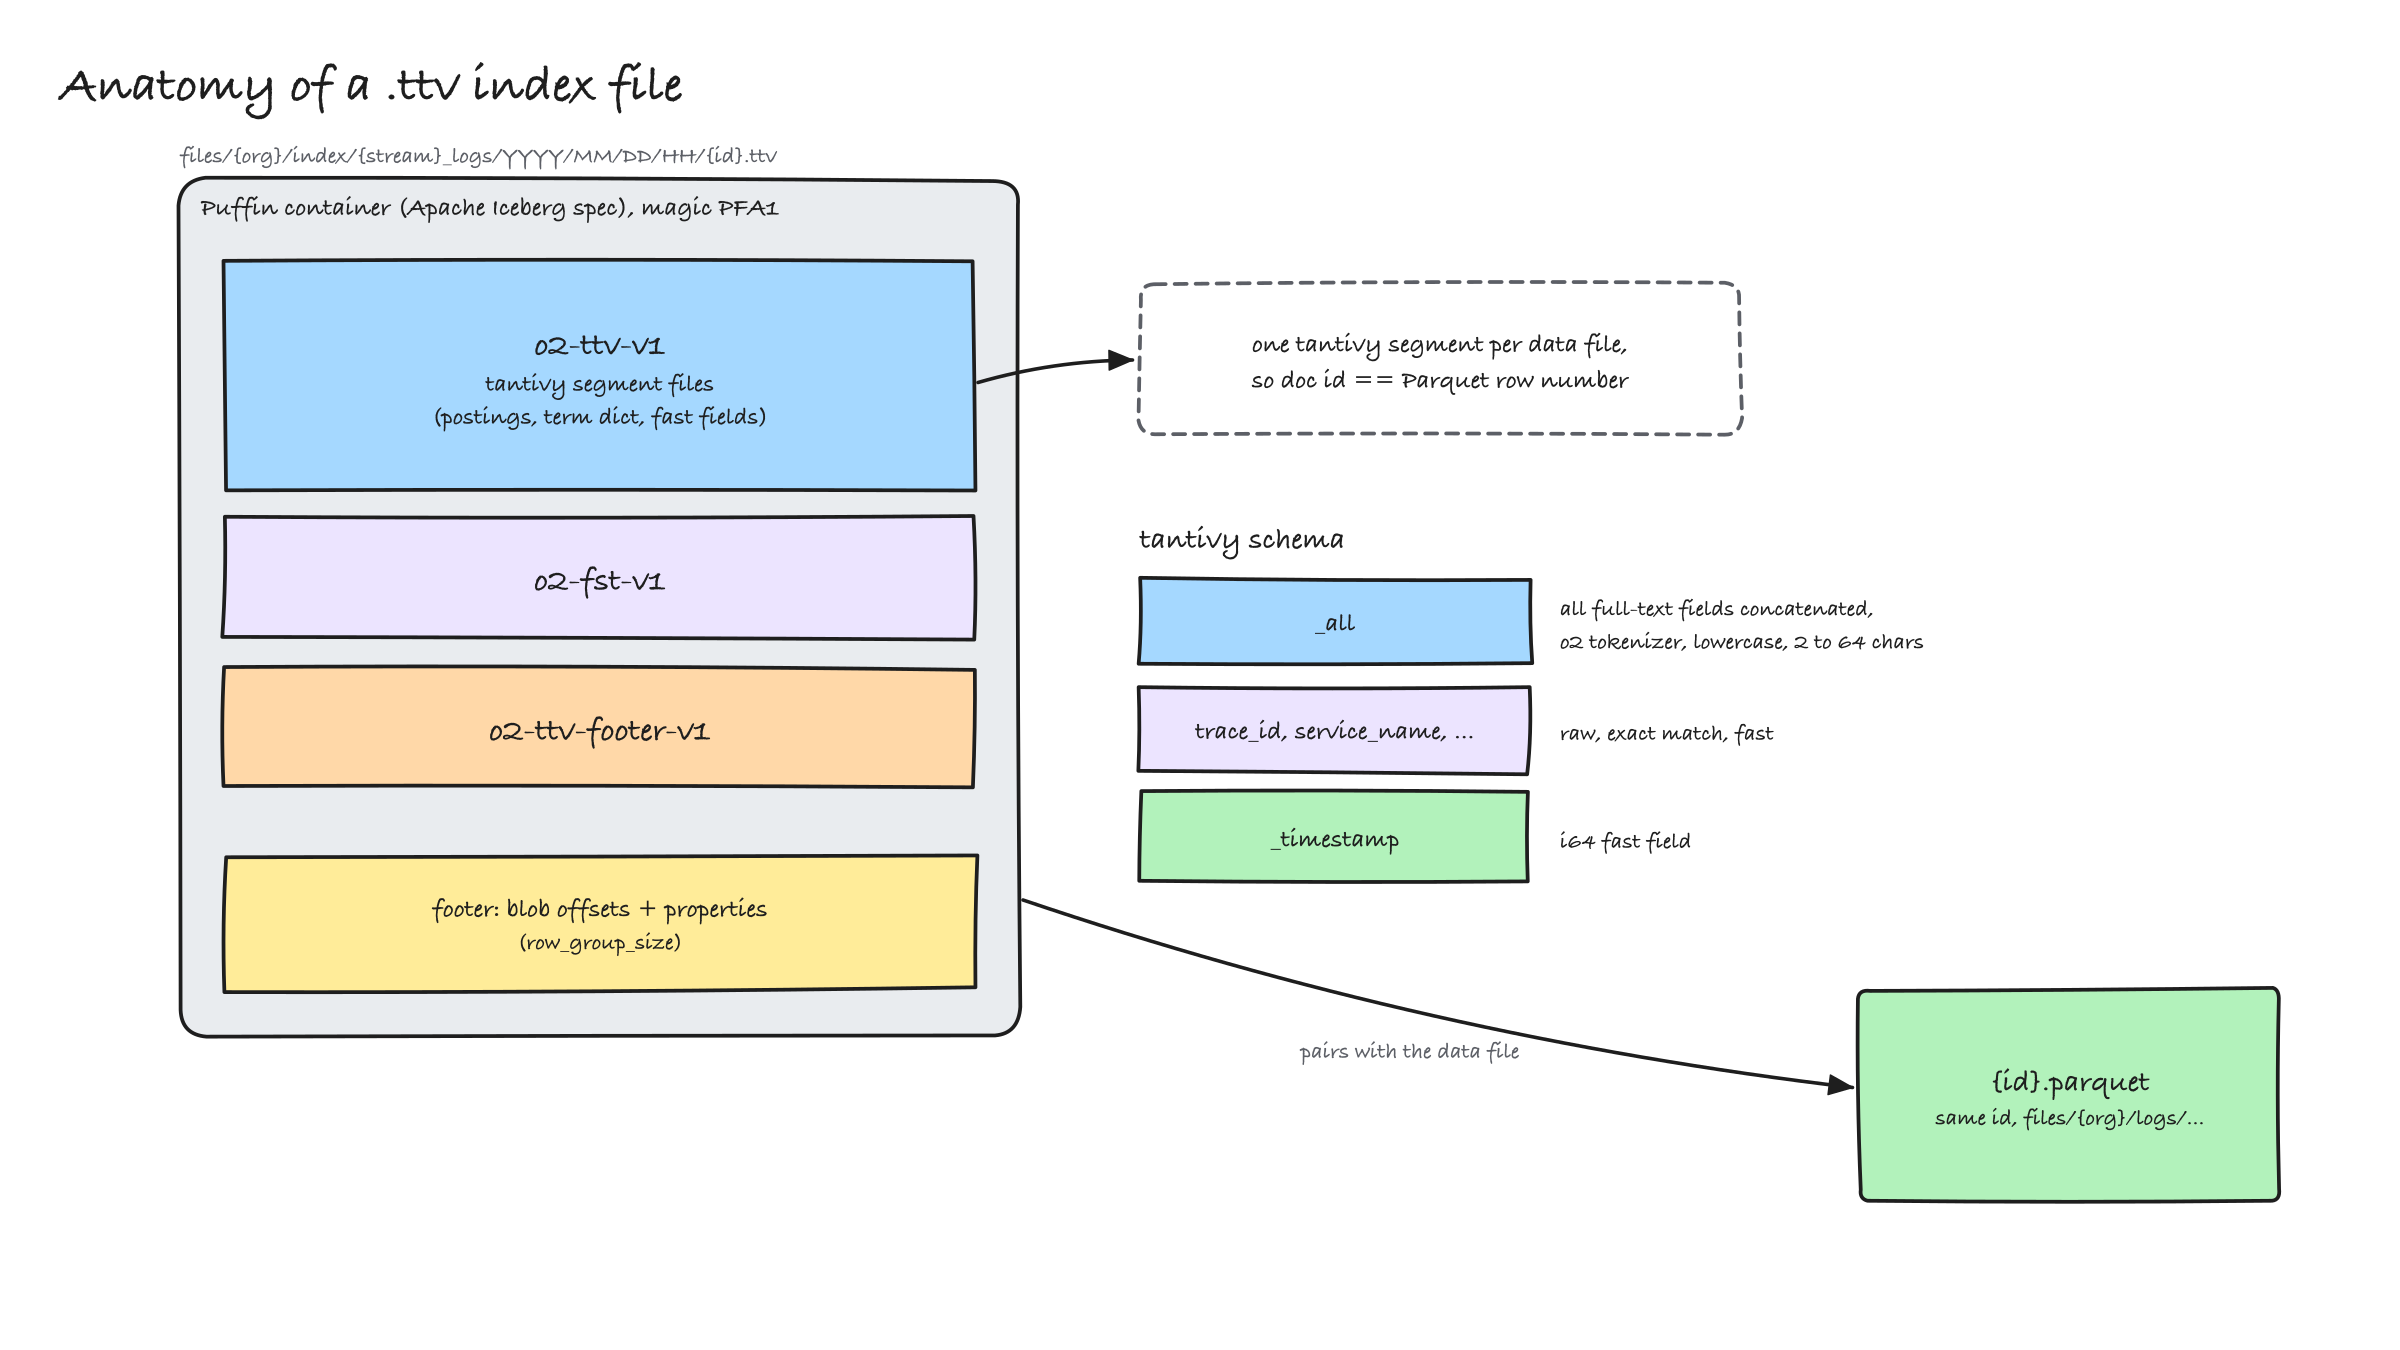
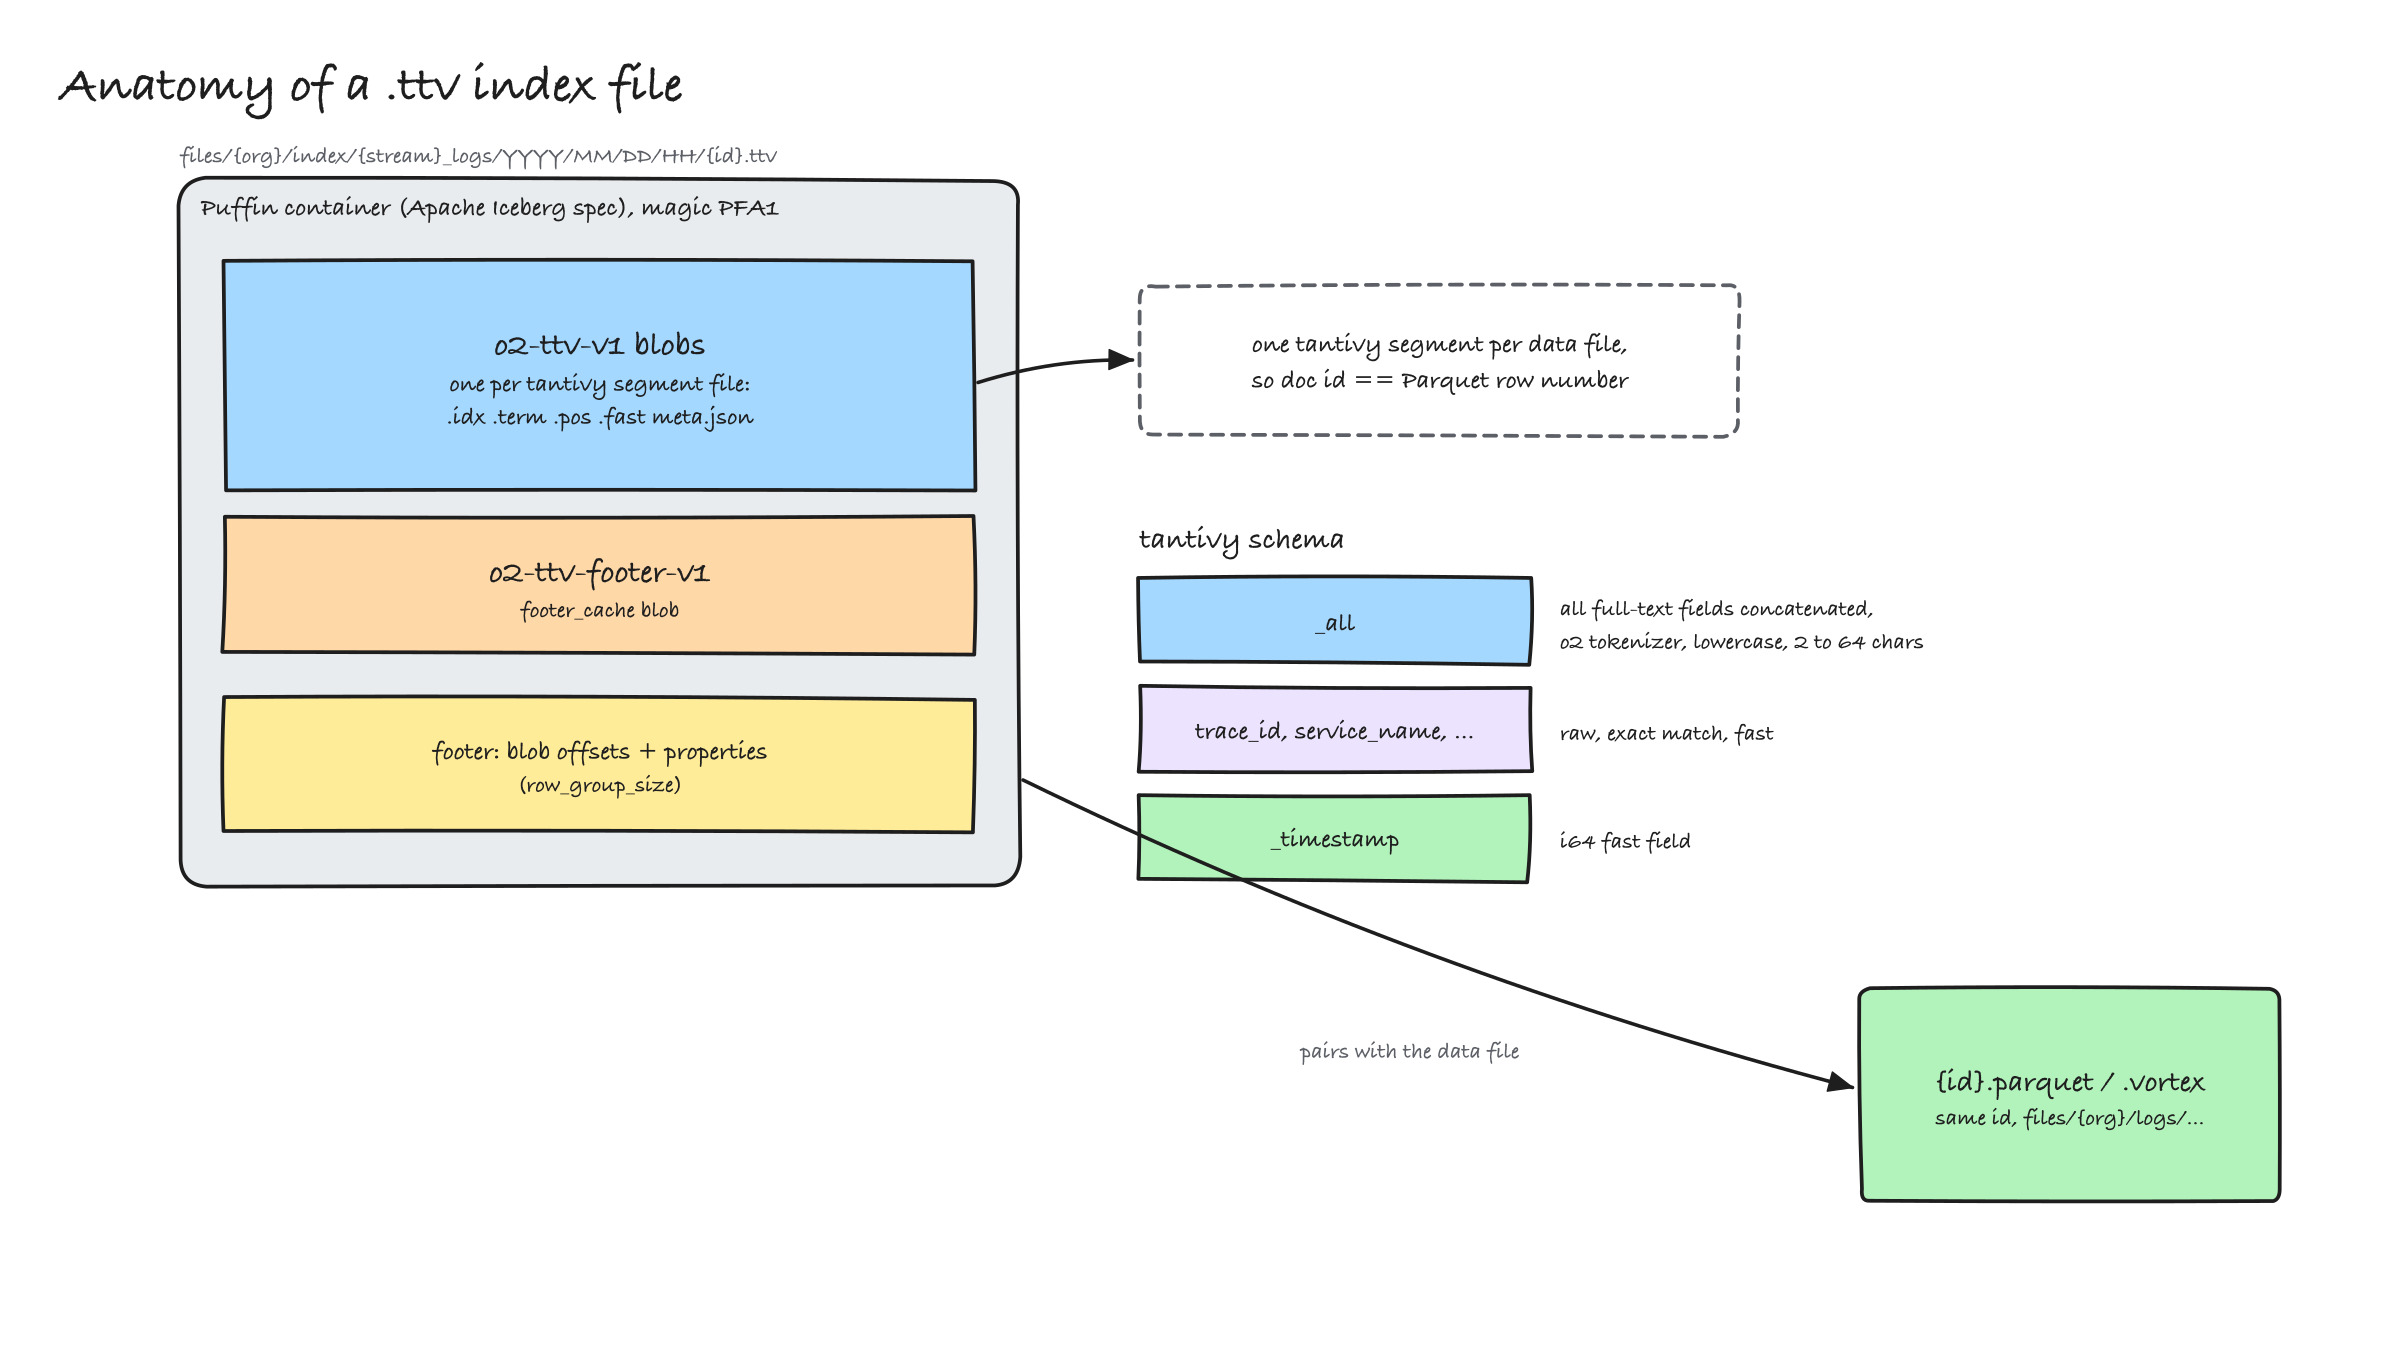
Review fixes: ttv diagram blobs, funnel and write-path labels, screenshot captions, rc2 note

diff --git a/content/blog/kubernetes-observability-in-2026-with-openobserve.md b/content/blog/kubernetes-observability-in-2026-with-openobserve.md
@@ -60,7 +60,7 @@ That gives us a bar to hold any backend to:
 
 ## The solution: how OpenObserve is built
 
-OpenObserve is a single Rust binary, licensed AGPL-3.0. It ingests logs, metrics, traces, RUM and LLM traces over OTLP (and Elasticsearch bulk, Loki push, Prometheus remote write, Splunk HEC), stores everything as Parquet or Vortex files in S3, GCS, Azure Blob, MinIO or a local disk, indexes only the fields you search, and answers SQL and PromQL through Apache DataFusion. Its 1.0 release candidate landed on 28 August 2026. The README claims a 2 PB per day deployment and "140x lower storage cost than Elasticsearch". Both are vendor claims, so let's look at what is underneath.
+OpenObserve is a single Rust binary, licensed AGPL-3.0. It ingests logs, metrics, traces, RUM and LLM traces over OTLP (and Elasticsearch bulk, Loki push, Prometheus remote write, Splunk HEC), stores everything as Parquet or Vortex files in S3, GCS, Azure Blob, MinIO or a local disk, indexes only the fields you search, and answers SQL and PromQL through Apache DataFusion. Its first 1.0 release candidate landed on 28 August 2026 and a second on 3 September; everything in this post was run on rc1. The README claims a 2 PB per day deployment and "140x lower storage cost than Elasticsearch". Both are vendor claims, so let's look at what is underneath.
 
 Before we go inside, let's put it against the bar we set above and see how it is different:
 
@@ -78,7 +78,7 @@ It is not a drop-in replacement for Prometheus, though. For metrics it takes the
 
 ![Write path](/img/blog/kubernetes-observability-in-2026-with-openobserve/write-path.gif)
 
-A batch lands over HTTP, its JSON is flattened (`kubernetes.labels.app` becomes `kubernetes_labels_app`, which is why every screenshot has those long field names) and its schema is checked against the stream. It is appended to a write-ahead log and an in-memory Arrow table at the same time. Every 2 seconds the frozen tables become Parquet, the upload job merges them into one file per stream and hour, writes it to the bucket under `files/{org}/{type}/{stream}/YYYY/MM/DD/HH/`, builds a full-text index for that file as a `.ttv` object, and only then records the file in the `file_list` catalog. If the catalog database is unreachable, nothing is uploaded. There are never orphan objects in the bucket, and I like that a lot.
+A batch lands over HTTP, its JSON is flattened (`k8s.namespace.name` becomes `k8s_namespace_name`, which is why every screenshot has those long field names) and its schema is checked against the stream. It is appended to a write-ahead log and an in-memory Arrow table at the same time. Every 2 seconds the frozen tables become Parquet, the upload job merges them into one file per stream and hour, writes it to the bucket under `files/{org}/{type}/{stream}/YYYY/MM/DD/HH/`, builds a full-text index for that file as a `.ttv` object, and only then records the file in the `file_list` catalog. If the catalog database is unreachable, nothing is uploaded. There are never orphan objects in the bucket, and I like that a lot.
 
 Two things you should know: the WAL is flushed but not fsynced per batch by default (`ZO_WAL_FSYNC_DISABLED=true`), a fair trade for a system whose durable tier is the bucket, and the defaults in the code differ from the docs in several places (the WAL rotates at 512 MB, the docs say 64). Trust the binary you run.
 
@@ -177,7 +177,7 @@ k8s_events
 450
 ```
 
-Container logs, Kubernetes events and 450 metric streams within a minute, from the kubelet, cAdvisor, kube-state-metrics and the API server. An hour later the streams page summed up the storage story:
+Container logs, Kubernetes events and 450 metric streams within a minute, from the kubelet, cAdvisor, kube-state-metrics and the API server. Later in the run the streams page summed up the storage story (the `slo_slices` and `triggers` streams come from the SLO step further down, and `checkout_archive` is a 40,000 row backfill I used to test compaction, not covered here):
 
 ![Streams page: 470 streams, 1.51 GB ingested, 102.56 MB compressed](/img/blog/kubernetes-observability-in-2026-with-openobserve/12-streams-compression.jpg)
 
@@ -227,7 +227,7 @@ curl -s -u $AUTH -H 'Content-Type: application/json' -X POST "$O2/api/default/pi
 {"code":200,"message":"Pipeline created successfully","id":"7500791427660513280","name":"parse-shop-logs"}
 ```
 
-The function is the interesting part:
+The function is the interesting part (abridged here, the version in the repo also copies `span_id`, `order_id`, `amount`, `gateway`, `error` and `sku`):
 
 ```text
 if .k8s_namespace_name == "shop" && exists(.body) {
@@ -254,13 +254,13 @@ curl -s -u $AUTH -H 'Content-Type: application/json' "$O2/api/default/_search?ty
 {"level":"error","msg":"payment failed","order_id":"ord-311027","trace_id":"512dea2672432a9e4b827d48af5e1e1b"}
 ```
 
-In the UI the same fields show up as facets on the left, which is what turns "grep the shop namespace" into clicking `k8s_namespace_name`, then `level`. This is 2.2K error rows out of 184K in 116 ms:
+In the UI the same fields show up as facets on the left, which is what turns "grep the shop namespace" into clicking `k8s_namespace_name`, then `level`. This is 2.2K error rows in 116 ms:
 
 ![Logs page: shop namespace errors with the k8s field facets](/img/blog/kubernetes-observability-in-2026-with-openobserve/02-logs-shop-errors.jpg)
 
-And the jump works in both directions. Expand any of those rows and the trace id is a field with a "View Trace" button next to it:
+And the jump works in both directions. Expand any of those rows and there is a View Trace button on it, because the trace id is now a field:
 
-![An expanded log row after the pipeline: level, msg, order_id and trace_id as fields, with View Trace](/img/blog/kubernetes-observability-in-2026-with-openobserve/03-log-row-trace-id.jpg)
+![An expanded log row after the pipeline: parsed fields such as level, amount and error, with the View Trace button](/img/blog/kubernetes-observability-in-2026-with-openobserve/03-log-row-trace-id.jpg)
 
 ### 5. Look at the files
 
@@ -399,7 +399,7 @@ One catch you will hit: the echo server has a private cluster IP and OpenObserve
 
 ![SLO page: checkout-availability, budget blown](/img/blog/kubernetes-observability-in-2026-with-openobserve/09-slo-budget-blown.jpg)
 
-The burn-rate alert stayed quiet, and its evaluations were logged as "frozen (unobserved)". That freeze is deliberate: an SLO alert never resolves while its windows are unmeasured. But the measurements were being written, and the status row the alert reads never moved. Debug logging gave the reason in one line:
+The burn-rate alert stayed quiet, and its evaluations were logged as "frozen (unobserved)". That freeze is deliberate: an SLO alert never resolves while its windows are unmeasured. But the measurements were being written, and the status row the alert reads was written once at creation and never advanced afterwards. Debug logging gave the reason in one line:
 
 ```bash
 kubectl -n openobserve logs o2-openobserve-standalone-0 | grep "\[slo\] pass failed"
@@ -410,7 +410,7 @@ ERROR [slo] pass failed for 7500794280517042176 org=default: DbError# SeaORMErro
   error returned from database: (code: 8) attempt to write a readonly database
 ```
 
-The SLO pass opens the read-only database client and then writes through it. On PostgreSQL that is a normal connection, so cluster deployments are fine. On SQLite, which every single-node install uses, the write fails, so SLO alerts stay frozen in local mode on this release candidate. A one-line fix, filed with the reproduction. Plain alerts are unaffected, which is why we created the second one. The scheduled alert on the same failed spans evaluates once at creation, where it usually reports Normal, and fires on the next run a minute later, so give it that minute before reading the echo server:
+The SLO pass opens the read-only database client and then writes through it. On PostgreSQL that is a normal connection, so cluster deployments are fine. On SQLite, which every single-node install uses, the write fails, so SLO alerts stay frozen in local mode on this release candidate, and rc2 has the same line. It is a one-line fix. Plain alerts are unaffected, which is why we created the second one. The scheduled alert on the same failed spans evaluates once at creation, where it usually reports Normal, and fires on the next run a minute later, so give it that minute before reading the echo server:
 
 ```bash
 kubectl -n shop logs deploy/alert-sink | jq -R -c 'fromjson? | select(.path=="/alerts") | .body | fromjson'
@@ -422,7 +422,7 @@ kubectl -n shop logs deploy/alert-sink | jq -R -c 'fromjson? | select(.path=="/a
 
 The alerts page tells the same story in one row each: the SLO-backed alert with no outcome yet, the scheduled one showing its last result.
 
-![Alerts list: the frozen burn-rate alert and the scheduled alert that fired](/img/blog/kubernetes-observability-in-2026-with-openobserve/08-alerts-list.jpg)
+![Alerts list: the SLO-backed alert with no outcome, and the scheduled alert after its first evaluation](/img/blog/kubernetes-observability-in-2026-with-openobserve/08-alerts-list.jpg)
 
 Heal the app with `chaos?rate=2` when you are done.
 
@@ -502,7 +502,7 @@ INFO ingester: Found 5 wal files to replay
 WARN ingester::wal: replay wal file: ".../logs/1788326948372735.wal" done, batch_num: 6, took: 4 ms
 ```
 
-Nothing was lost. Two things that cost me time, neither about OpenObserve: `kiac load image checkout:demo` stores the bare name while the kubelet looks for `docker.io/library/checkout:demo`, so tag with the full name (I am fixing this in kiac). And if you wrap Go's `slog.Handler` to inject trace ids, implement `WithAttrs` and `WithGroup` too, or `logger.With(...)` silently drops your wrapper.
+Nothing was lost. Two things that cost me time, neither about OpenObserve: `kiac load image checkout:demo` stores the bare name while the kubelet looks for `docker.io/library/checkout:demo`, so tag with the full name. And if you wrap Go's `slog.Handler` to inject trace ids, implement `WithAttrs` and `WithGroup` too, or `logger.With(...)` silently drops your wrapper.
 ## Sharp edges and an honest take
 
 **Laptop to cluster is real.** One Helm install, and the same binary that runs on a laptop was ingesting a whole cluster at under 600 MiB of memory. Cluster mode is a bigger commitment: PostgreSQL, NATS, object storage and the roles chart.
